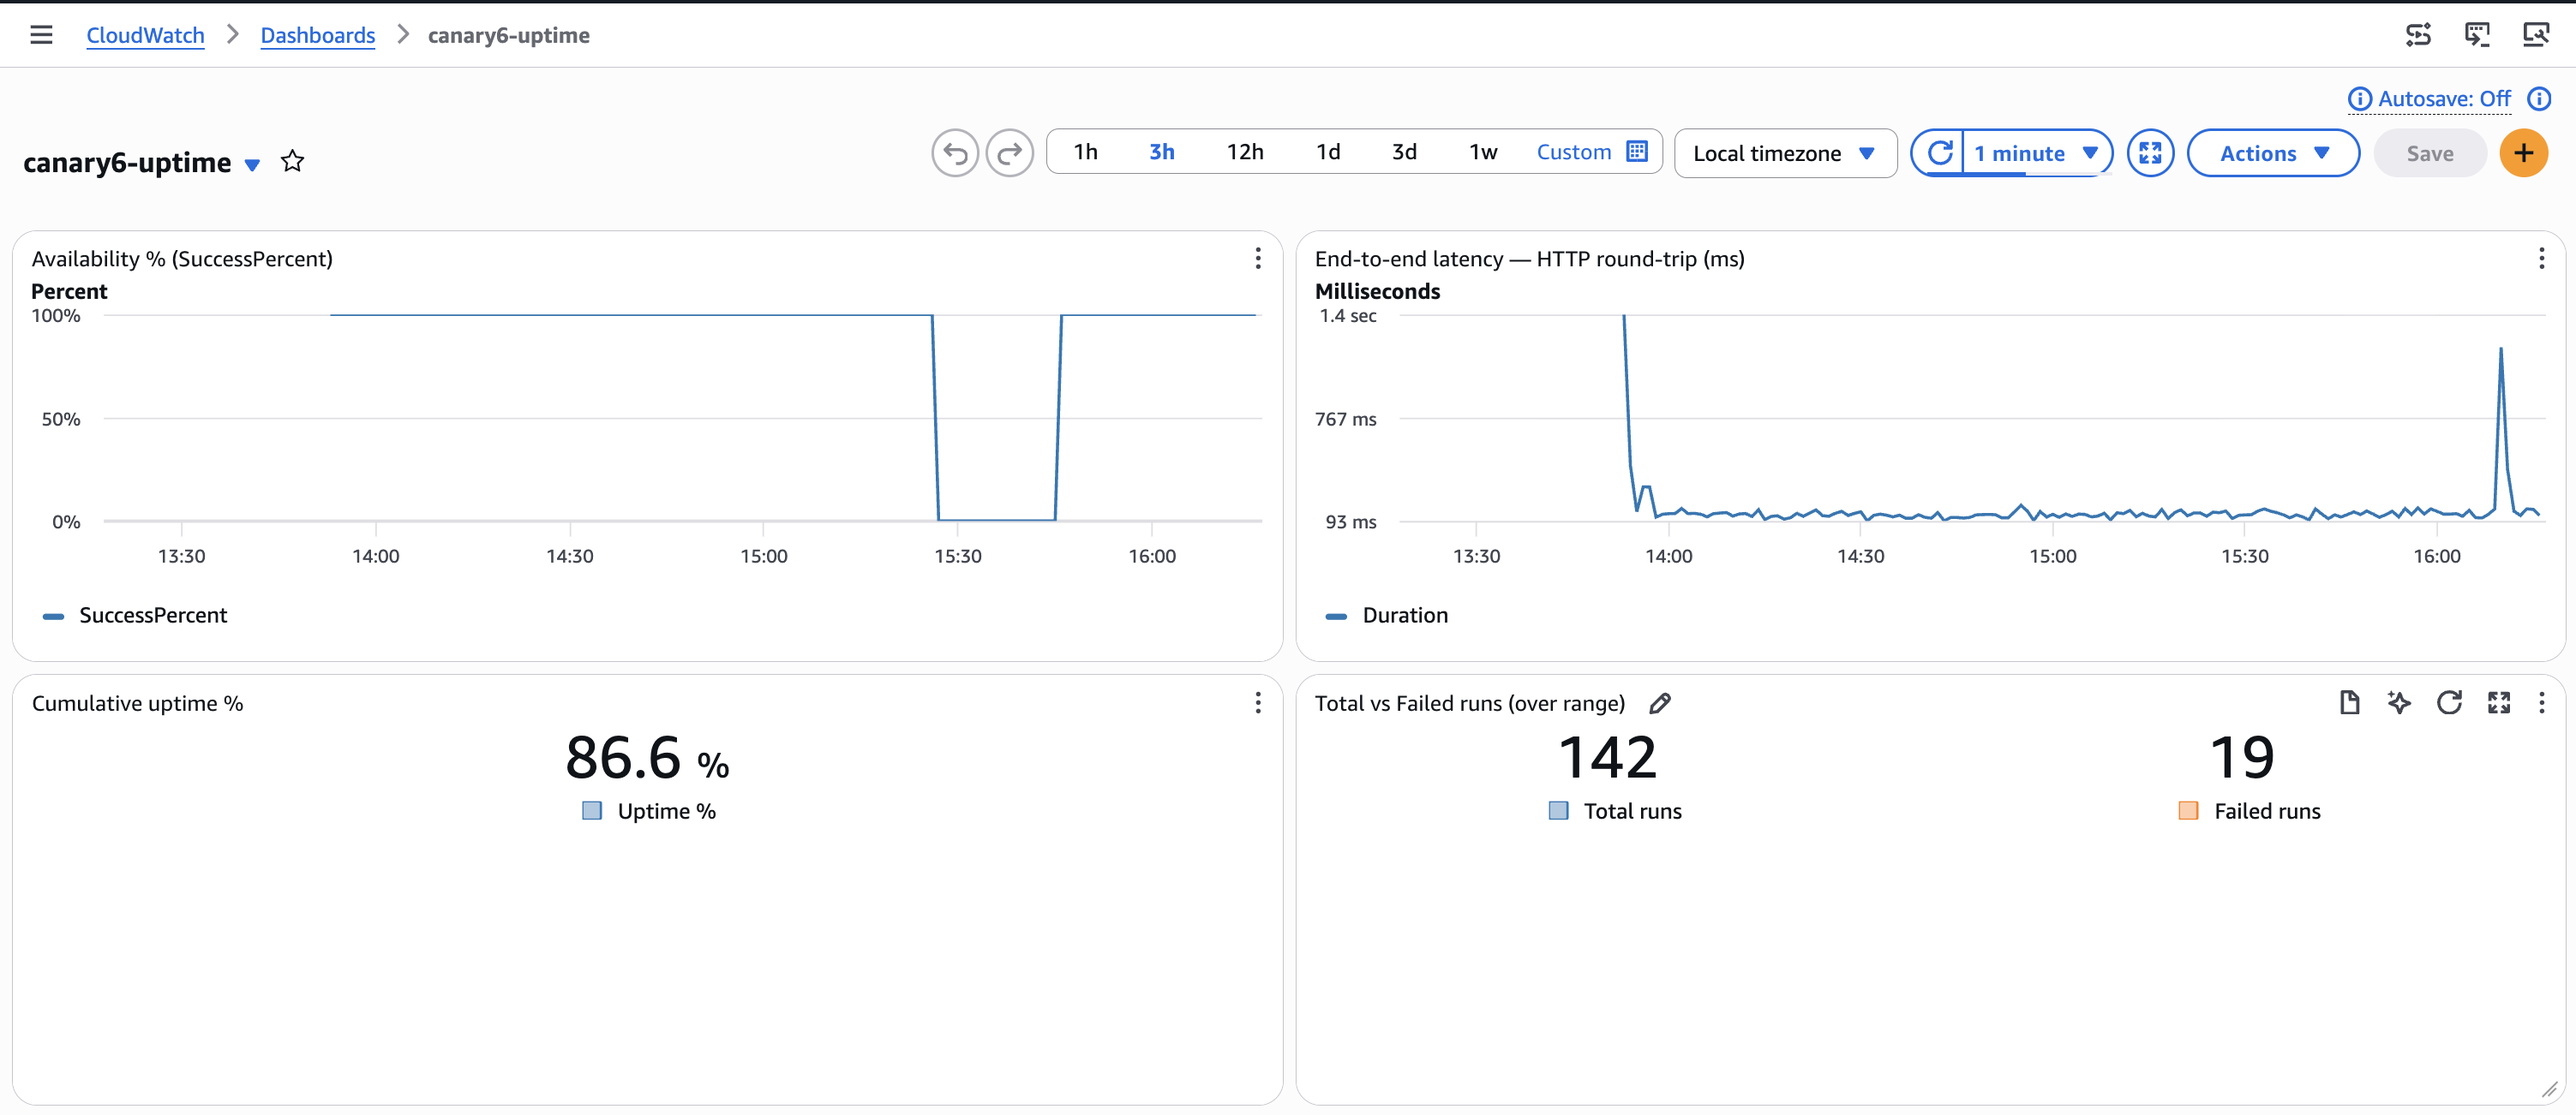
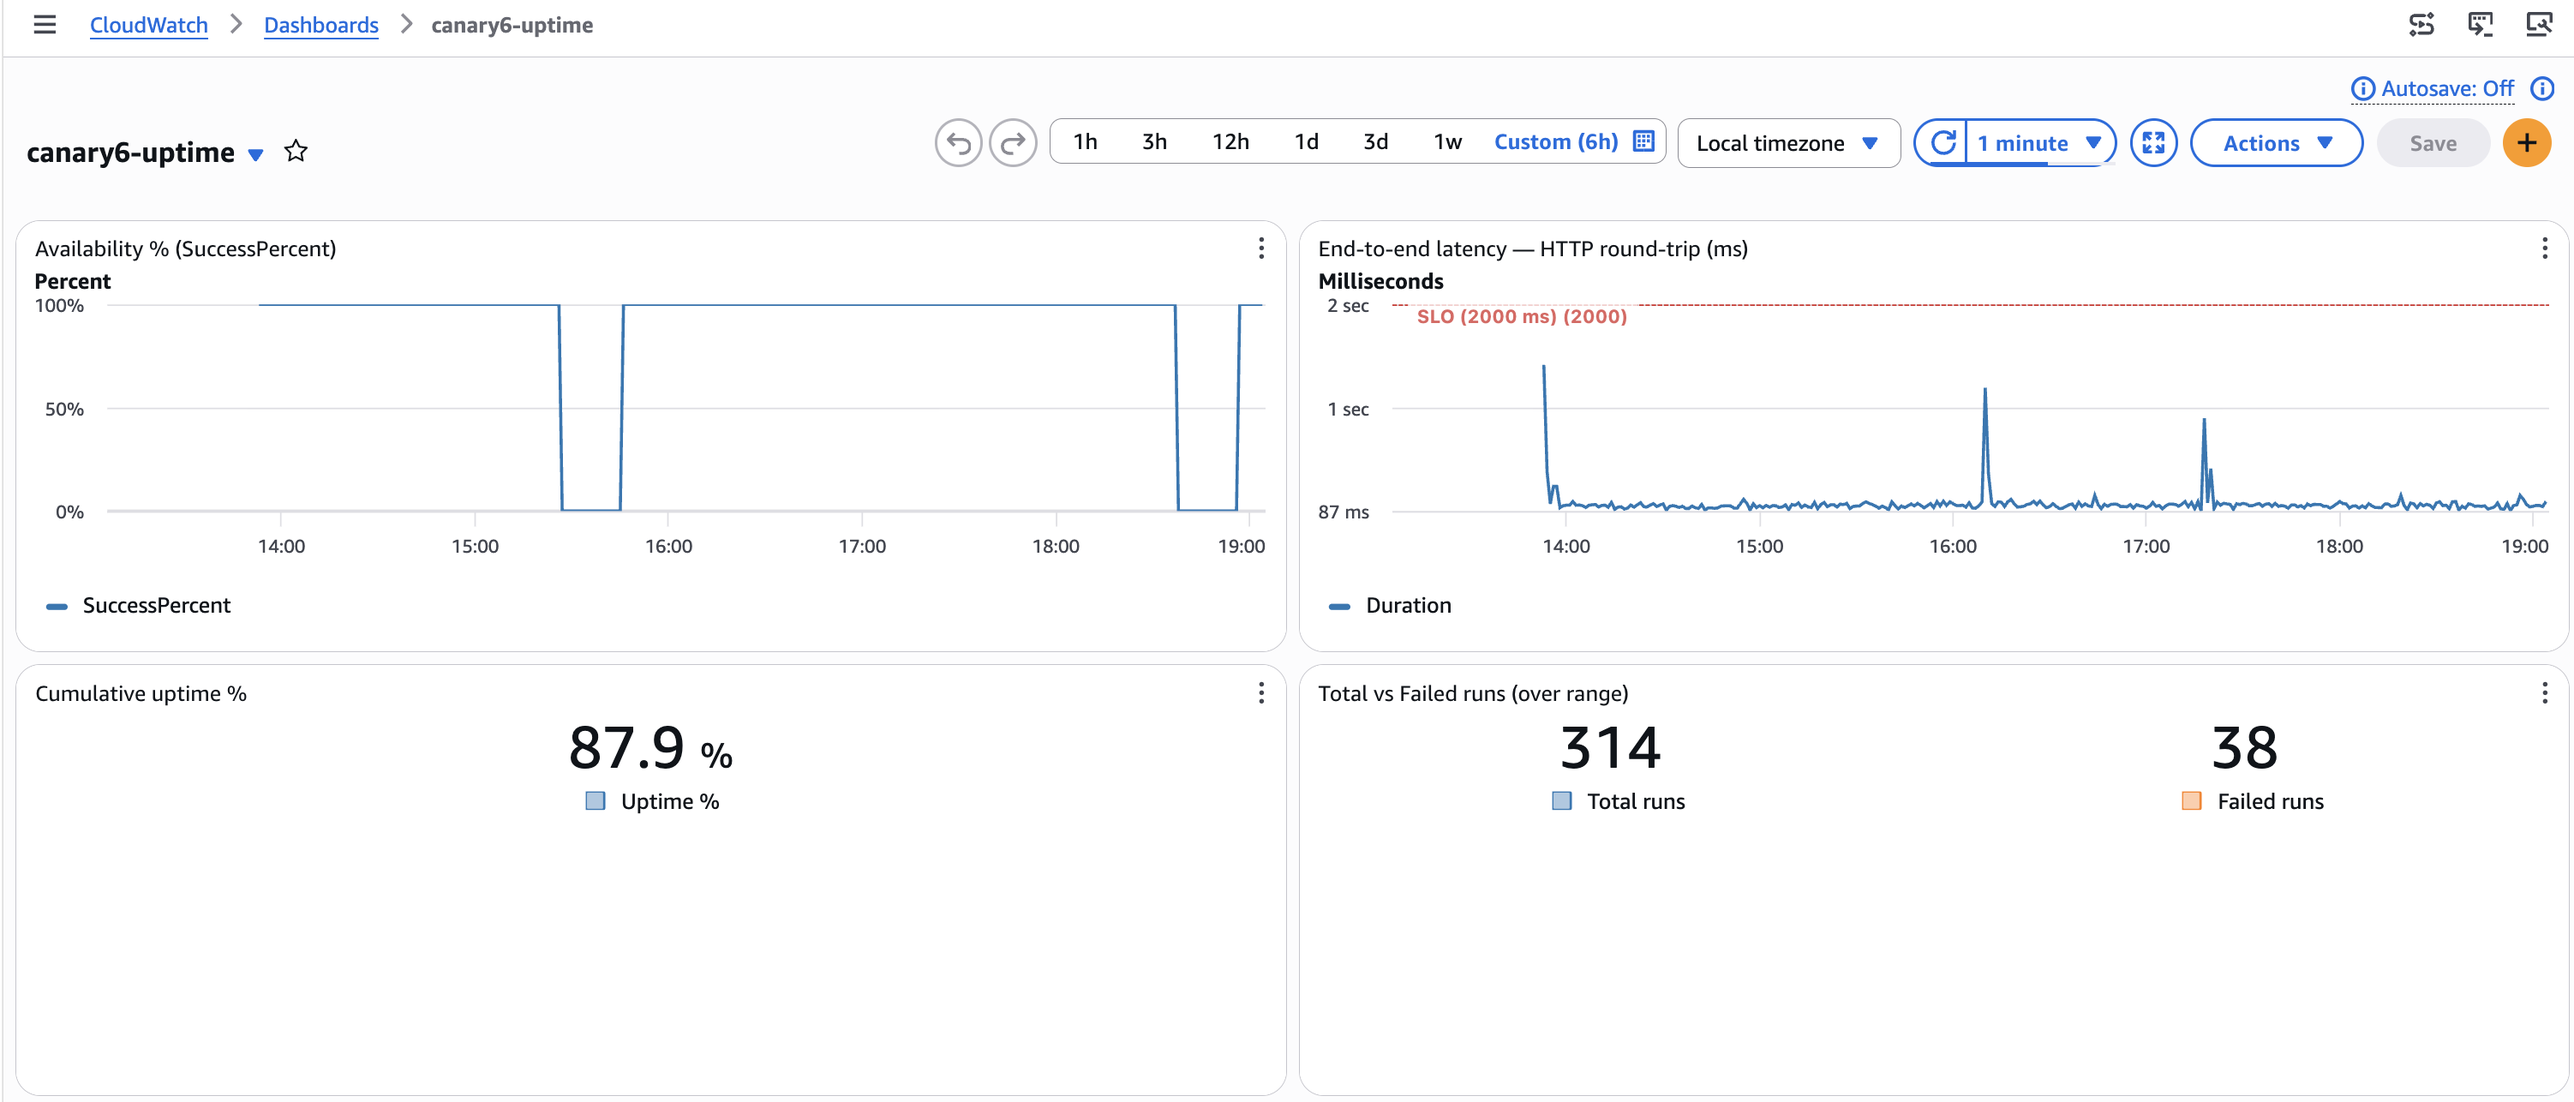
Lower the default latency SLO to 2000 ms and refresh the dashboard image

diff --git a/canary/deep-health.js b/canary/deep-health.js
@@ -32,8 +32,10 @@
  * compatible with runtimes older than 13.1 (legacy `Synthetics`/`SyntheticsLogger`
  * namespace) nor with the Playwright runtimes (different API).
  *
- * Env vars: TARGET_URL (required), SLO_MS (default 3000 — an honest end-to-end
- * budget that accounts for cold starts; tighten for warm, steady-traffic services).
+ * Env vars: TARGET_URL (required), SLO_MS (default 2000 — sized against the bundled
+ * sample app, measured at p50 ~140ms / p90 ~175ms / cold starts ~1.45s, so ~1.4x
+ * headroom. RAISE it for a slower backend: exceeding it fails the RUN, not just the
+ * latency alarm, so too tight a value records cold starts as false outages).
  *
  * This is the standalone reference script and the SOURCE OF TRUTH for the canary
  * logic. The CloudFormation template (iac/cloudformation/deep-health-uptime.yaml)
@@ -46,7 +48,7 @@ const log = require('@aws/synthetics-logger');
 
 const deepHealthCheck = async function () {
   const url = process.env.TARGET_URL;
-  const sloMs = parseInt(process.env.SLO_MS || '3000', 10);
+  const sloMs = parseInt(process.env.SLO_MS || '2000', 10);
   if (!url) throw new Error('TARGET_URL environment variable is required');
 
   // executeHttpStep accepts a URL string or an http.request-style options

diff --git a/test/contract_test.py b/test/contract_test.py
@@ -9,12 +9,12 @@ it into the canary. Point it at your handler's URL and it checks:
   2. The JSON is well-formed and carries the required keys.
   3. A degraded/unreachable dependency yields HTTP 503 with status "degraded"
      (run with --expect-degraded to assert the failure path).
-  4. The endpoint responds within the SLO budget (--slo-ms, default 3000),
+  4. The endpoint responds within the SLO budget (--slo-ms, default 2000),
      i.e. it fails fast rather than hanging.
 
 Usage:
   python contract_test.py --url https://app.example.com/health/deep
-  python contract_test.py --url http://localhost:8080/health/deep --slo-ms 3000
+  python contract_test.py --url http://localhost:8080/health/deep --slo-ms 2000
   python contract_test.py --url .../health/deep --expect-degraded   # failure-path
 
 Exit code 0 = contract satisfied, non-zero = violation (CI-friendly).
@@ -53,7 +53,7 @@ def check(name, ok, detail=""):
 def main() -> int:
     ap = argparse.ArgumentParser(description="Validate a /health/deep handler against the contract.")
     ap.add_argument("--url", required=True, help="Full URL of the /health/deep endpoint.")
-    ap.add_argument("--slo-ms", type=int, default=3000, help="Latency budget in ms (default 3000, matching the solution default).")
+    ap.add_argument("--slo-ms", type=int, default=2000, help="Latency budget in ms (default 2000, matching the solution default).")
     ap.add_argument("--expect-degraded", action="store_true",
                     help="Assert the failure path: expect HTTP 503 + status 'degraded'.")
     ap.add_argument("--timeout", type=float, default=10.0, help="Request timeout in seconds.")

diff --git a/README.md b/README.md
@@ -71,7 +71,7 @@ bash deploy.sh --target-url https://your-app/health/deep --stack-name deep-healt
 
 It prints every stack output when done — including the dashboard name, monitored URL, and SNS topic.
 
-**Verify it works.** Open the CloudWatch dashboard named **`<stack-name>-uptime`** ([shown above](#the-dashboard)). After a few runs, **Availability % (SuccessPercent)** sits at 100% and the **Cumulative uptime %** widget populates. In **CloudWatch → Application Signals → Synthetics Canaries**, open any run to see its step result and the HTTP request report — including the DNS/TCP/TLS/first-byte timing breakdown that tells you *where* a slow response was spent.
+**Verify it works.** Open the CloudWatch dashboard named **`<stack-name>-uptime`** ([shown below](#the-dashboard)). After a few runs, **Availability % (SuccessPercent)** sits at 100% and the **Cumulative uptime %** widget populates. In **CloudWatch → Application Signals → Synthetics Canaries**, open any run to see its step result and the HTTP request report — including the DNS/TCP/TLS/first-byte timing breakdown that tells you *where* a slow response was spent.
 
 **Prove a failure is caught.** With the sample app deployed, induce a real dependency failure and watch the canary flip to failing (and the alarm fire), then recover:
 
@@ -95,7 +95,7 @@ If you deployed under another stack name, pass `--sample-stack <your-stack-name>
 > dependency your health endpoint probes (revoke the reader's permission, point it at an
 > unreachable host) and watch the canary report 503.
 
-> **One knob to know:** `SloMs` (default **3000 ms**) is the full response time a user experiences, **including any backend cold start** — cold-start slowness correctly counts against uptime rather than being hidden. Tighten it for a warm, steady-traffic service.
+> **One knob to know:** `SloMs` (default **2000 ms**) is the full response time a user experiences, **including any backend cold start** — cold-start slowness correctly counts against uptime rather than being hidden. A breach is recorded as a **failed run**, not just a latency alarm, so the value has to be honest. The default is sized against the bundled sample app, measured over 4,800+ runs: **p50 ≈ 140 ms, p90 ≈ 175 ms, cold starts ≈ 1.45 s**. **Raise it for a slower backend** — a JVM or .NET target cold-starts past 2 s — and tighten it only once you've confirmed your own p99.
 
 **→ Full deployment guide: [`DEPLOYMENT.md`](DEPLOYMENT.md)** — prerequisites, the deep-health endpoint contract, all deploy methods (guided / one-shot root stack / CloudFormation), the parameters reference, VPC vs non-VPC (with the egress precheck), retargeting, and teardown.
 
@@ -111,22 +111,23 @@ The infrastructure-as-code provisions the **monitoring stack only** — it does 
 6. **Amazon SNS topic** — breach notifications.
 7. **Amazon CloudWatch dashboard** (`<stack-name>-uptime`) — four widgets: **Availability % (SuccessPercent)** over time, **End-to-end latency** with the SLO drawn as a threshold line, **Cumulative uptime %** for the selected range, and **Total vs Failed runs**.
 
-**Cost:** roughly **$10.50/month per monitored endpoint** at a 5-minute cadence (about $52/month at 1-minute) — almost all of it the canary runs themselves, at $0.0012 each. Alarms and the dashboard are free within the account-wide free tiers ($3.20/month beyond them), and the canary's metrics are included in the run price rather than billed as custom metrics. VPC mode adds a NAT Gateway (~$33/month) unless you use VPC endpoints. See the verified breakdown in [DEPLOYMENT.md → Cost](DEPLOYMENT.md#cost).
+**Cost:** roughly **$10.50/month per monitored endpoint** at a 5-minute cadence (about $52.60/month at 1-minute) — almost all of it the canary runs themselves, at $0.0012 each. Alarms and the dashboard are free within the account-wide free tiers ($3.20/month beyond them), and the canary's metrics are included in the run price rather than billed as custom metrics. VPC mode adds a NAT Gateway (~$33/month) unless you use VPC endpoints. See the verified breakdown in [DEPLOYMENT.md → Cost](DEPLOYMENT.md#cost).
 
 ## The dashboard
 
-![CloudWatch dashboard with four widgets. Availability % holds at 100% then drops to 0% for about twenty minutes before recovering. End-to-end latency runs near 100 ms with a 1.4-second cold-start spike. Cumulative uptime % reads 86.6%. Total vs Failed runs reads 142 total and 19 failed.](images/dashboard.png)
+![CloudWatch dashboard with four widgets. Availability % holds at 100% and drops to 0% twice, for about twenty minutes each, recovering both times. End-to-end latency runs near 130 ms against a red SLO threshold line at 2000 ms, with cold-start spikes reaching about 1.2 seconds. Cumulative uptime % reads 87.9%. Total vs Failed runs reads 314 total and 38 failed.](images/dashboard.png)
 
-The four widgets above, captured during a real induced outage (`test/break-dependency.sh`, then
-`test/restore-dependency.sh`). The dip is the sample app's DynamoDB dependency being broken and
-restored — the canary caught every failed run, and the availability alarm fired on the first one.
+The four widgets above, captured over six hours spanning two real induced outages
+(`test/break-dependency.sh`, then `test/restore-dependency.sh`). Each dip is the sample app's
+DynamoDB dependency being broken and restored — the canary caught every failed run, and the
+availability alarm fired on the first failed run of each dip.
 
 Two things worth reading off this screenshot:
 
-- **The bottom two widgets agree exactly.** 19 of 142 runs failed, and cumulative uptime reads
-  **86.6%** — which is `(142 − 19) / 142`. Those are two different statistics on the same metric
+- **The bottom two widgets agree exactly.** 38 of 314 runs failed, and cumulative uptime reads
+  **87.9%** — which is `(314 − 38) / 314`. Those are two different statistics on the same metric
   arriving at the same answer, which is the whole basis of the calculation in the next section.
-- **The 1.4-second spike is a real cold start**, not monitoring overhead. The latency widget plots
+- **The spikes to ~1.2 s are real cold starts**, not monitoring overhead. The latency widget plots
   the **per-step** `Duration`, so it measures the HTTP round trip a user would have waited for —
   canary runtime boot time is excluded.
 

diff --git a/DEPLOYMENT.md b/DEPLOYMENT.md
@@ -11,7 +11,9 @@ End-to-end steps to stand up the deep-health uptime monitoring stack.
 
 > **Canary runtime:** the stack pins `syn-nodejs-puppeteer-17.0` (Node.js 22.x) and the script uses the current `@aws/synthetics-*` namespace (`@aws/synthetics-puppeteer`, `@aws/synthetics-logger`), introduced in `syn-nodejs-puppeteer-13.1`. It is **not** compatible with runtimes older than 13.1 or with the Playwright runtimes — if you change the runtime, keep the script's `require(...)` namespace in sync.
 
-> **Latency SLO — set an honest end-to-end budget.** `SloMs` (default `3000`) is the full response time a user experiences, **including any backend cold start** (the canary waits for the complete response, so cold-start slowness correctly counts against uptime — it is not hidden). A warm, steady-traffic ECS + Aurora service can use a tighter budget. Don't shrink the SLO to mask cold starts — fix them with provisioned concurrency, not a smaller number.
+> **Latency SLO — set an honest end-to-end budget.** `SloMs` (default `2000`) is the full response time a user experiences, **including any backend cold start** (the canary waits for the complete response, so cold-start slowness correctly counts against uptime — it is not hidden). A breach is recorded as a **failed run** (`SuccessPercent` → 0), not merely a latency alarm, so an unrealistic value shows up as a false outage in the uptime number itself.
+>
+> The `2000` default is sized against the bundled sample app (API Gateway + Node Lambda + DynamoDB), measured across **4,832 runs on seven canaries**: p50 **140 ms**, p90 **175 ms**, and cold starts peaking at **1,456 ms** — about 1.4× headroom over a cold start. **Raise it if your backend is slower**: a JVM or .NET Lambda cold-starts well past 2 s, and at a `rate(5 minutes)` schedule you hit cold starts more often than at `rate(1 minute)` because the target sits at Lambda's idle-eviction boundary. Confirm your own p99 before tightening it. Don't shrink the SLO to mask cold starts — fix them with provisioned concurrency, not a smaller number.
 
 > **Note — this is a minimal reference sample.** To keep it near-$0 and easy to read, the stack ships without some production-hardening options a scanner will flag: no customer-managed KMS keys or point-in-time recovery on the sample DynamoDB table, no dead-letter queue or reserved concurrency on the sample Lambda, no server-side-encryption CMK on the SNS topic, and no access-logging/versioning on the artifact bucket. These are safe to omit for evaluating the pattern; **enable the ones your environment requires before using this in production.**
 
@@ -42,7 +44,7 @@ Deploy your app with the new endpoint.
 ## Step 2 — Validate the endpoint (before wiring the canary)
 
 ```bash
-python3 test/contract_test.py --url https://app.example.com/health/deep --slo-ms 3000
+python3 test/contract_test.py --url https://app.example.com/health/deep --slo-ms 2000
 
 # verify the failure path against a staging instance with a paused dependency:
 python3 test/contract_test.py --url https://staging.example.com/health/deep --expect-degraded
@@ -111,7 +113,7 @@ aws cloudformation deploy \
       TargetUrl=https://app.example.com/health/deep \
       ScheduleExpression="rate(5 minutes)" \
       AlarmPeriodSeconds=300 \
-      SloMs=3000 \
+      SloMs=2000 \
       AlarmEmail=you@example.com
 ```
 
@@ -130,7 +132,7 @@ aws cloudformation deploy \
       TargetUrl=https://internal-alb.internal/health/deep \
       ScheduleExpression="rate(5 minutes)" \
       AlarmPeriodSeconds=300 \
-      SloMs=3000 \
+      SloMs=2000 \
       AlarmEmail=you@example.com \
       VpcSubnetIds=subnet-0aaa,subnet-0bbb \
       CanarySecurityGroupId=sg-0abc123
@@ -264,7 +266,7 @@ filter @type = "REPORT"
 | `TargetUrl` | — | Full `/health/deep` URL (required) |
 | `CanaryName` | `deep-health` | ≤21 chars |
 | `ScheduleExpression` | `rate(5 minutes)` | `rate(1 minute)`–`rate(1 hour)`. **Keep `AlarmPeriodSeconds` in step with it** |
-| `SloMs` | `3000` | End-to-end latency budget (ms), incl. any cold start. Max `10000` (see below) |
+| `SloMs` | `2000` | End-to-end latency budget (ms), incl. any cold start. Max `10000` (see below) |
 | `AlarmPeriodSeconds` | `300` | Alarm evaluation period: `60`\|`300`\|`900`\|`3600`. Must be ≥ the probe interval. `deploy.sh` derives it from the schedule |
 | `AlarmEmail` | — | SNS email subscription |
 | `VpcSubnetIds` | — | Enables VPC mode when set (comma-separated; 2+ in different AZs recommended) |
@@ -316,7 +318,7 @@ The URL the canary probes is the `TargetUrl` stack parameter, set at deploy time
 
 **Common case: you deployed with the sample app and now want to monitor your own endpoint.**
 
-1. **Add a deep health endpoint to your application** if you haven't already — copy the reference handler closest to your stack from [`handlers/`](handlers/), adapt the probe, and deploy. Validate it: `python3 test/contract_test.py --url https://your-app/health/deep --slo-ms 3000`.
+1. **Add a deep health endpoint to your application** if you haven't already — copy the reference handler closest to your stack from [`handlers/`](handlers/), adapt the probe, and deploy. Validate it: `python3 test/contract_test.py --url https://your-app/health/deep --slo-ms 2000`.
 2. **Re-deploy the same stack, retargeted:**
    ```bash
    bash deploy.sh --stack-name deep-health-uptime --target-url https://your-app/health/deep

diff --git a/test/README.md b/test/README.md
@@ -7,7 +7,7 @@ contract before you wire it into the canary. Standard library only — no instal
 
 ```bash
 # Happy path — expect 200 {status:ok, latencyMs} within the SLO
-python3 contract_test.py --url https://app.example.com/health/deep --slo-ms 3000
+python3 contract_test.py --url https://app.example.com/health/deep --slo-ms 2000
 
 # Failure path — expect 503 {status:degraded} (point at a handler with a paused dependency)
 python3 contract_test.py --url https://app.example.com/health/deep --expect-degraded

diff --git a/sample-app/README.md b/sample-app/README.md
@@ -57,7 +57,7 @@ URL=$(aws cloudformation describe-stacks --stack-name deep-health-sample \
 curl -s "$URL"      # → {"status":"ok","db":"ok","latencyMs":<n>}
 
 # Validate against the contract test shipped in this repo:
-python3 test/contract_test.py --url "$URL" --slo-ms 3000
+python3 test/contract_test.py --url "$URL" --slo-ms 2000
 ```
 
 Then deploy the monitoring stack pointed at `$URL` — see the repo
